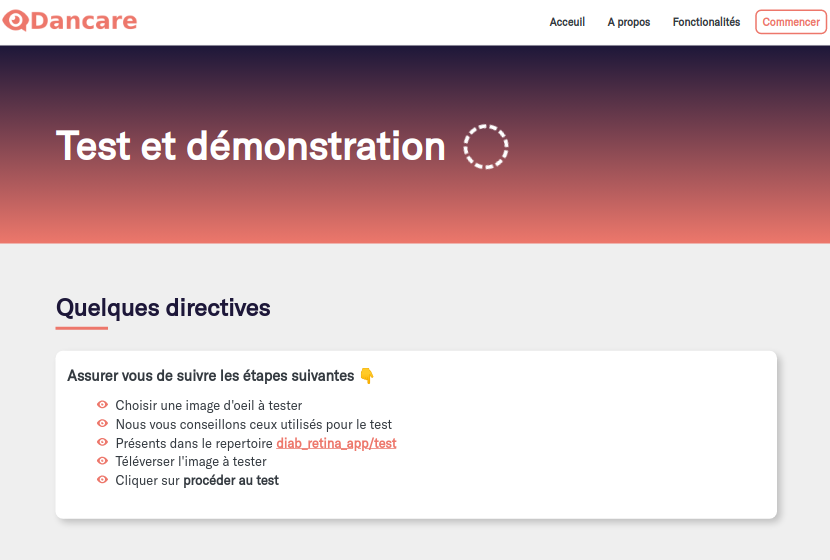
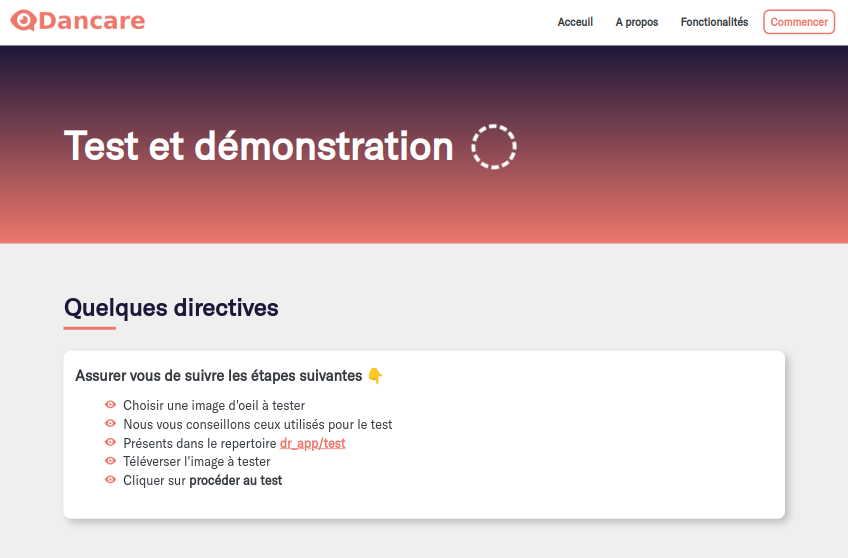
edit: folder

diff --git a/templates/demo.html b/templates/demo.html
@@ -45,8 +45,8 @@
                         <svg>
                             <use xlink:href="#eye" fill="#ED776B"></use>
                         </svg>
-                        Présents dans le repertoire <span class="second_color">
-                        diab_retina_app/test</span> 
+                        Présents dans le repertoire 
+                        <span class="second_color">dr_app/test</span> 
                     </li>
                     <li>
                         <svg>

diff --git a/README.md b/README.md
@@ -115,7 +115,7 @@ Go to your browser and type **localhost:8000**, or **adresse-ip:port** on your l
 - Go to demo page
 - Upload an healthy eye image or not
 - Start the test <br/>
-However, we recommand you use the images of **./diab_retina_app/test** folder
+However, we recommand you use the images of **./dr_app/test** folder
 
 
 
